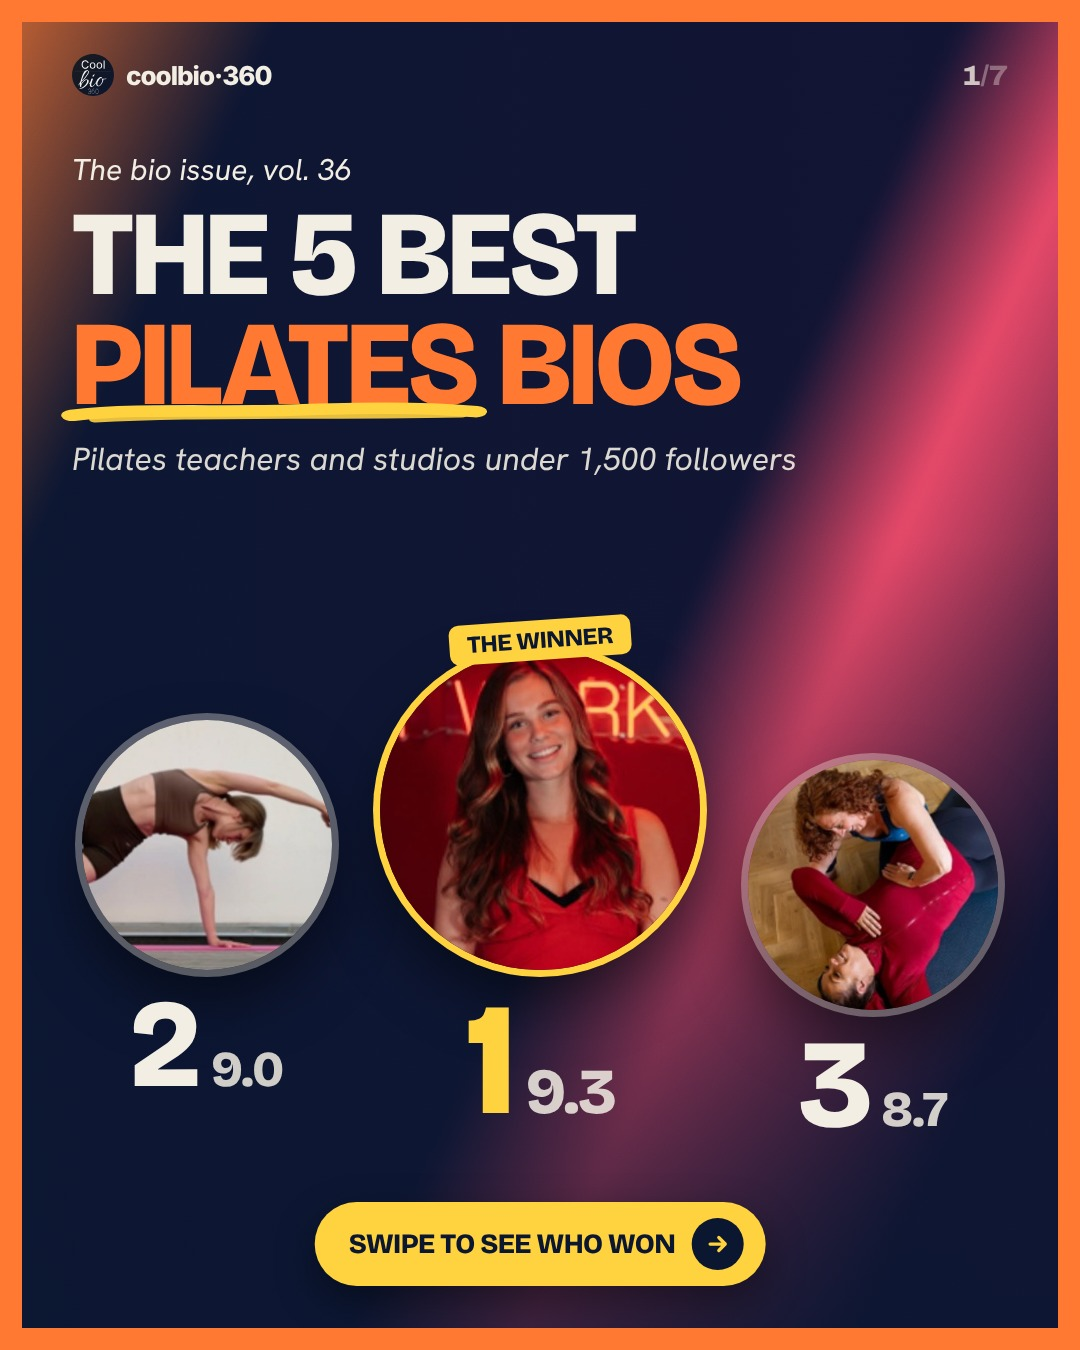
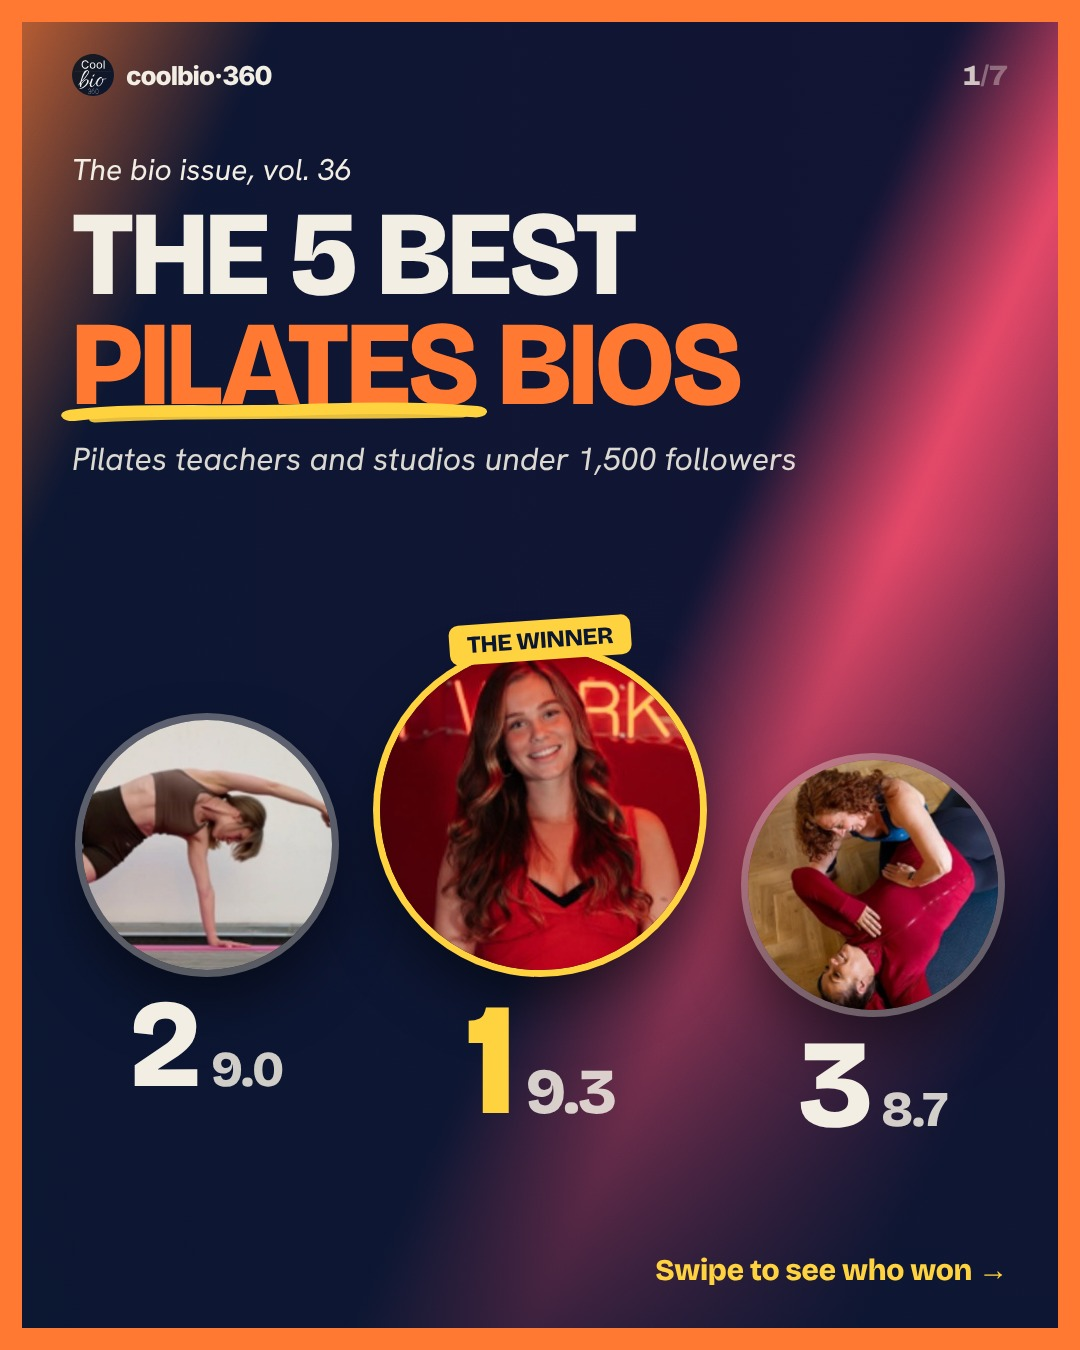
Swipe solo testo a destra
Claude-Session: https://claude.ai/code/session_01JL8RT6ZiLuziuRoxLPPpLq

Changed region(s): [[0.275, 0.8711, 0.9167, 0.9644]]

diff --git a/tools/v2/gen_top8.py b/tools/v2/gen_top8.py
@@ -30,9 +30,7 @@ def cover(d):
 <div style="font-family:Bricolage Grotesque,sans-serif;font-weight:800;letter-spacing:-.02em;font-size:120px;line-height:.92;text-transform:uppercase;margin-top:10px">The 5 best<br><span style="color:{d['strong']}">{under(E(d['word']),d['x'])} bios</span></div>
 <div class="sub" style="font-size:32px;margin-top:18px;opacity:.9">{E(d['sub'])}</div></div>
 {pod(2,M+10,720,250)}{pod(3,W-M-260,760,250)}{pod(1,(W-320)//2,650,320)}
-<div class="z" style="position:absolute;left:50%;bottom:64px;transform:translateX(-50%);display:flex;align-items:center;gap:16px;background:{d['x']};color:{NAVY};border-radius:999px;padding:16px 22px 16px 34px;box-shadow:0 16px 40px rgba(0,0,0,.4);white-space:nowrap">
-<span style="font-family:Bricolage Grotesque,sans-serif;font-weight:800;letter-spacing:-.02em;font-size:28px">SWIPE TO SEE WHO WON</span>
-<span style="width:52px;height:52px;border-radius:50%;background:{NAVY};display:flex;align-items:center;justify-content:center"><svg width="26" height="26" viewBox="0 0 24 24"><path d="M5 12h13M13 6l6 6-6 6" fill="none" stroke="{d['x']}" stroke-width="3" stroke-linecap="round" stroke-linejoin="round"/></svg></span></div>'''
+<div class="z" style="position:absolute;right:{M}px;bottom:62px;font-family:Bricolage Grotesque,sans-serif;font-weight:800;font-size:30px;color:{d['x']};letter-spacing:-.01em">Swipe to see who won →</div>'''
     return page(b,d['strong'])
 def statcol(name,vs,ls,S):
     rows=''.join(f'''<div style="display:grid;grid-template-columns:128px 150px 34px;gap:12px;align-items:center;height:30px;font-size:18px;color:{CREAM}"><span>{l}</span><div style="height:8px;border-radius:4px;background:rgba(243,238,228,.18)"><div style="width:{x*10}%;height:8px;border-radius:4px;background:{S}"></div></div><span style="font-weight:700;text-align:right">{x:g}</span></div>''' for l,x in zip(ls,vs))
